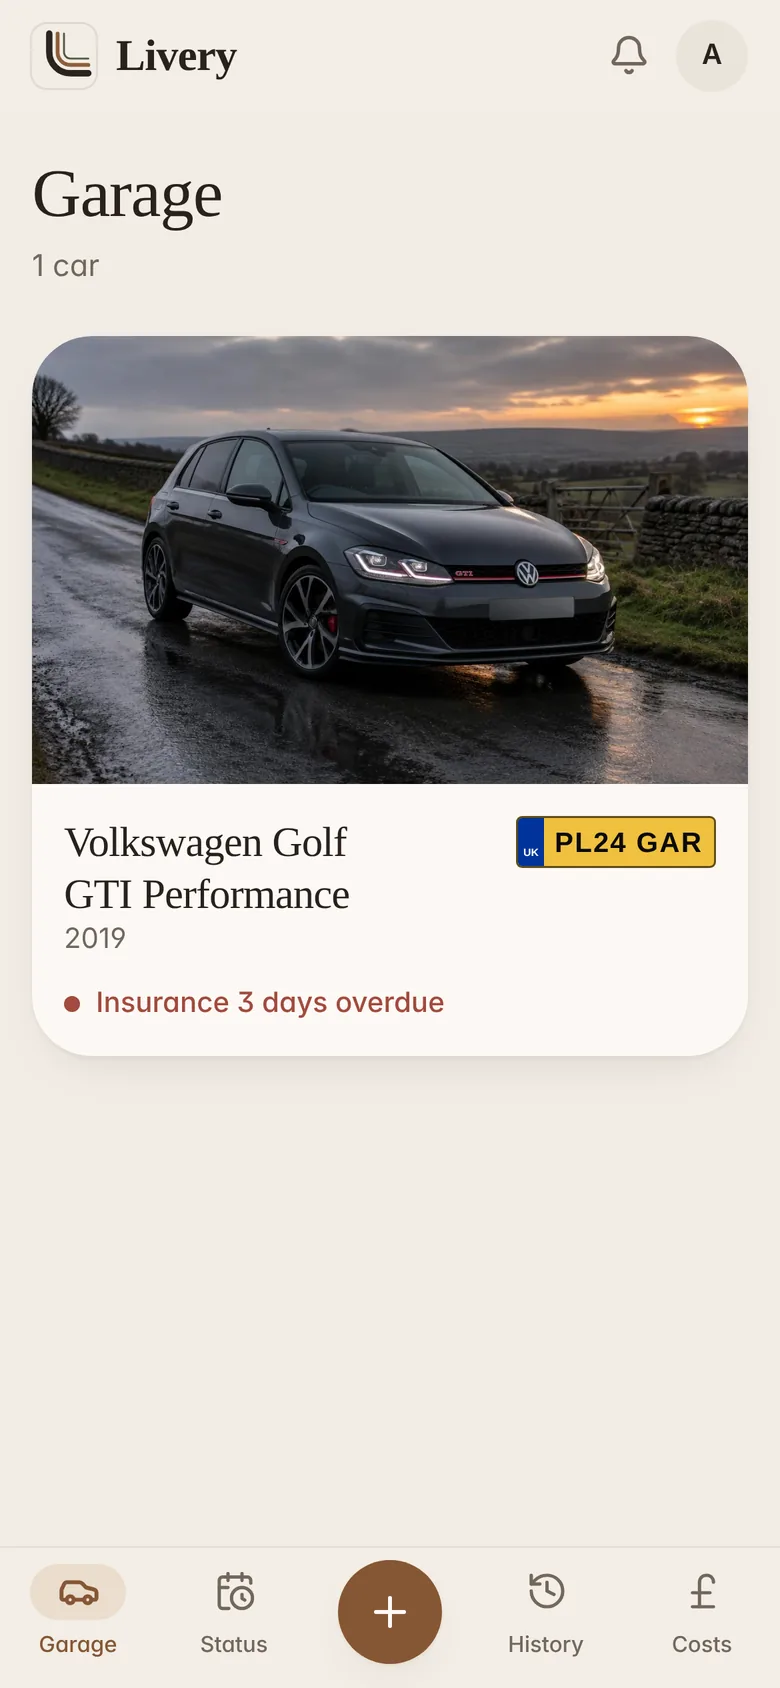
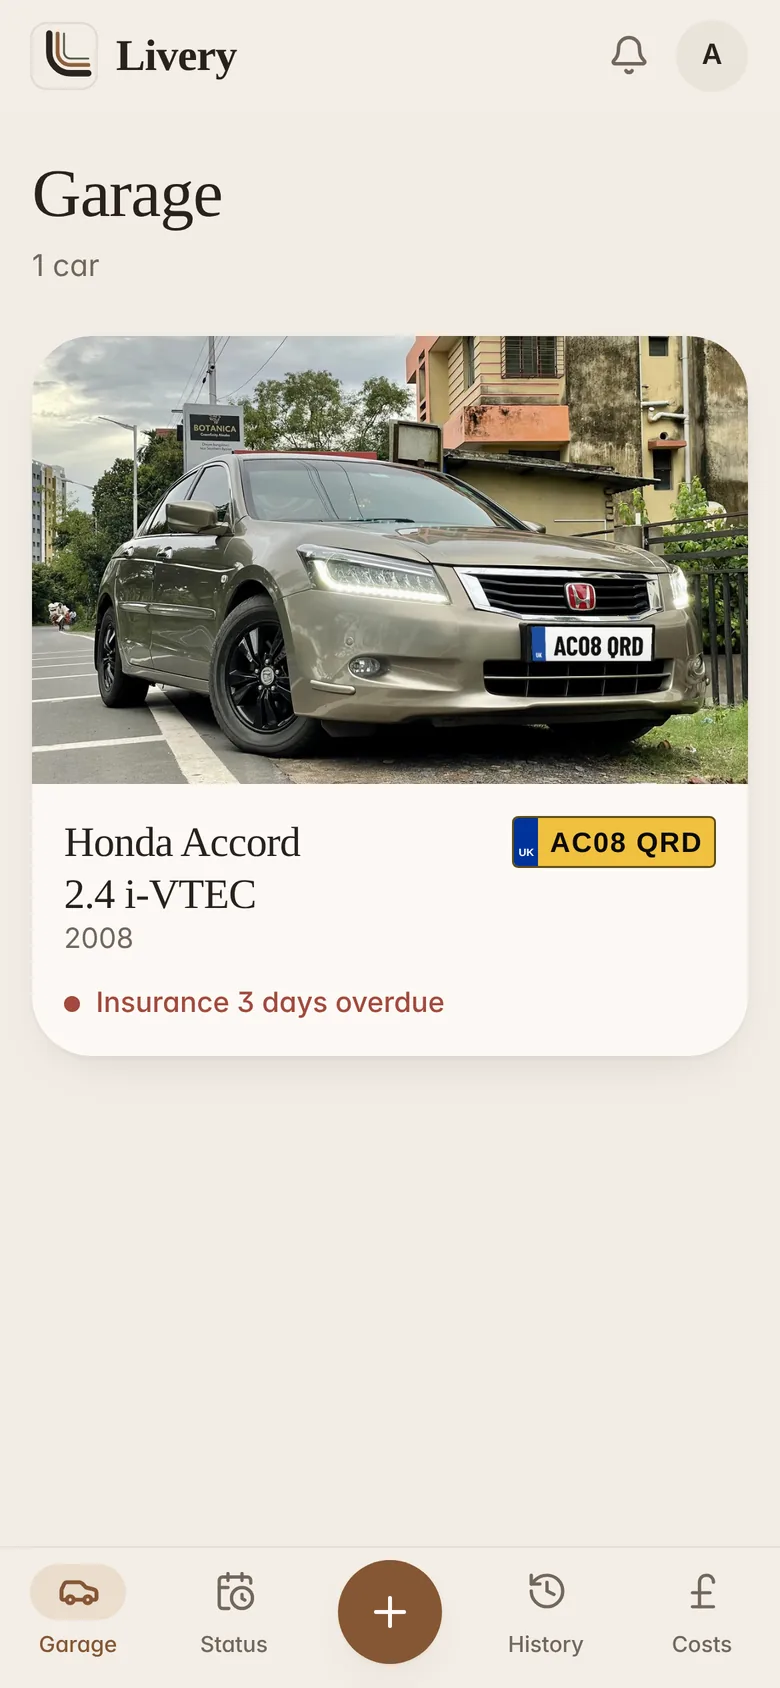
Demo car is now the founder's 2008 Honda Accord (AC08 QRD)
New app screenshots and social preview image; descriptions updated.

Claude-Session: https://claude.ai/code/session_01PHB16wMX8W2wJDExsiv7i1

Changed region(s): [[0.0308, 0.1848, 0.9846, 0.5853], [0.8308, 0.4929, 0.8923, 0.5237]]

diff --git a/index.html b/index.html
@@ -159,7 +159,7 @@
                 <li>Correct anything, any time</li>
               </ul>
             </div>
-            <div class="phone"><img src="/assets/screens/specs.webp" width="780" height="1688" alt="Livery's spec sheet for a car: 242 bhp, a 2.0 litre engine, 7-speed gearbox, 40.4 mpg and 1,415 kg" loading="lazy" /></div>
+            <div class="phone"><img src="/assets/screens/specs.webp" width="780" height="1688" alt="Livery's spec sheet for a 2008 Honda Accord: 177 bhp, a 2.4 litre naturally aspirated engine, 5-speed manual, 31.4 mpg and 1,465 kg" loading="lazy" /></div>
           </article>
 
           <article class="feature flip">
@@ -198,7 +198,7 @@
                 <li>Key moments, from the day you bought it</li>
               </ul>
             </div>
-            <div class="phone"><img src="/assets/screens/history.webp" width="780" height="1688" alt="Livery's History file: a detailing entry, a cat-back exhaust modification and a road trip, each with mileage and cost" loading="lazy" /></div>
+            <div class="phone"><img src="/assets/screens/history.webp" width="780" height="1688" alt="Livery's History file: a full detail, a stage 2 ECU tune and a performance air filter, each with mileage and cost" loading="lazy" /></div>
           </article>
 
           <article class="feature">
@@ -211,7 +211,7 @@
                 <li>Cost per bhp and total spent on mods</li>
               </ul>
             </div>
-            <div class="phone"><img src="/assets/screens/mods.webp" width="780" height="1688" alt="Livery's Mods tab: 311 bhp and 358 lb ft, up from 242 bhp and 273 lb ft stock, with a stage 1 remap, exhaust and induction kit" loading="lazy" /></div>
+            <div class="phone"><img src="/assets/screens/mods.webp" width="780" height="1688" alt="Livery's Mods tab: 200 bhp and 176 lb ft, up from 177 bhp and 161 lb ft stock, with a stage 2 ECU tune, cat-back exhaust and air filter" loading="lazy" /></div>
           </article>
 
           <article class="feature flip">
@@ -224,7 +224,7 @@
                 <li>Export to a spreadsheet whenever you like</li>
               </ul>
             </div>
-            <div class="phone"><img src="/assets/screens/costs.webp" width="780" height="1688" alt="Livery's Costs screen: £2,946 this year, £3,436 all time, 18p per mile, broken down by category" loading="lazy" /></div>
+            <div class="phone"><img src="/assets/screens/costs.webp" width="780" height="1688" alt="Livery's Costs screen: £786 this year, £1,246 all time and 9p per mile, broken down by category" loading="lazy" /></div>
           </article>
         </div>
       </section>
